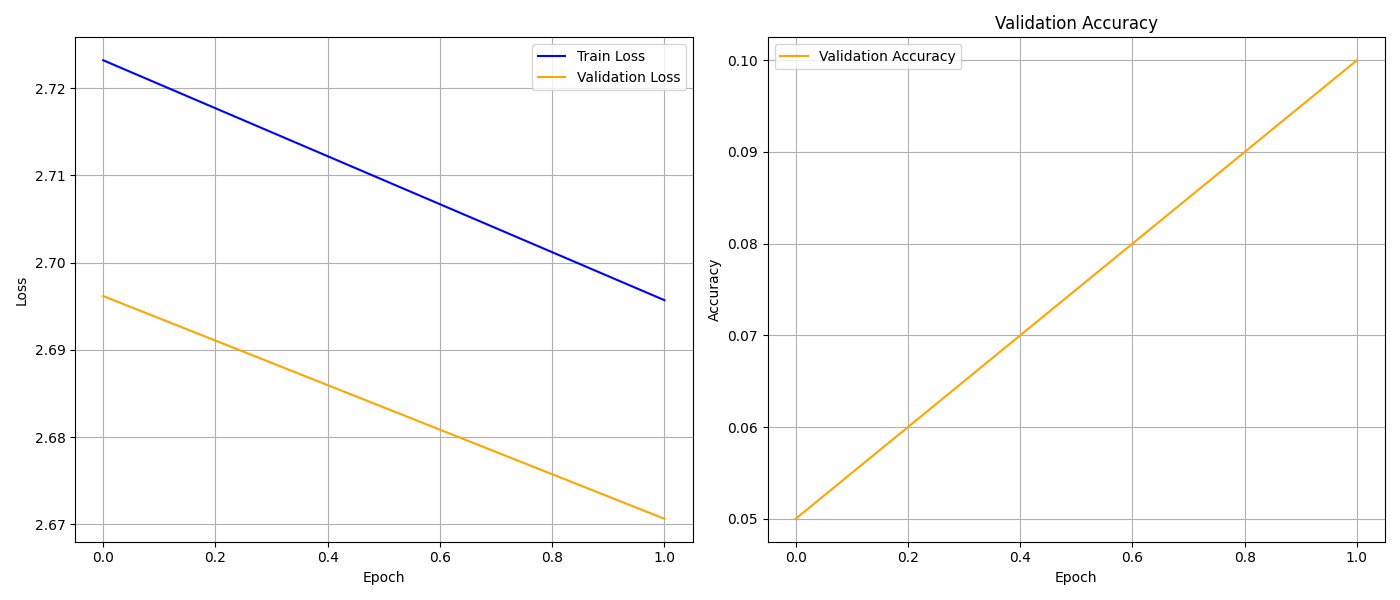
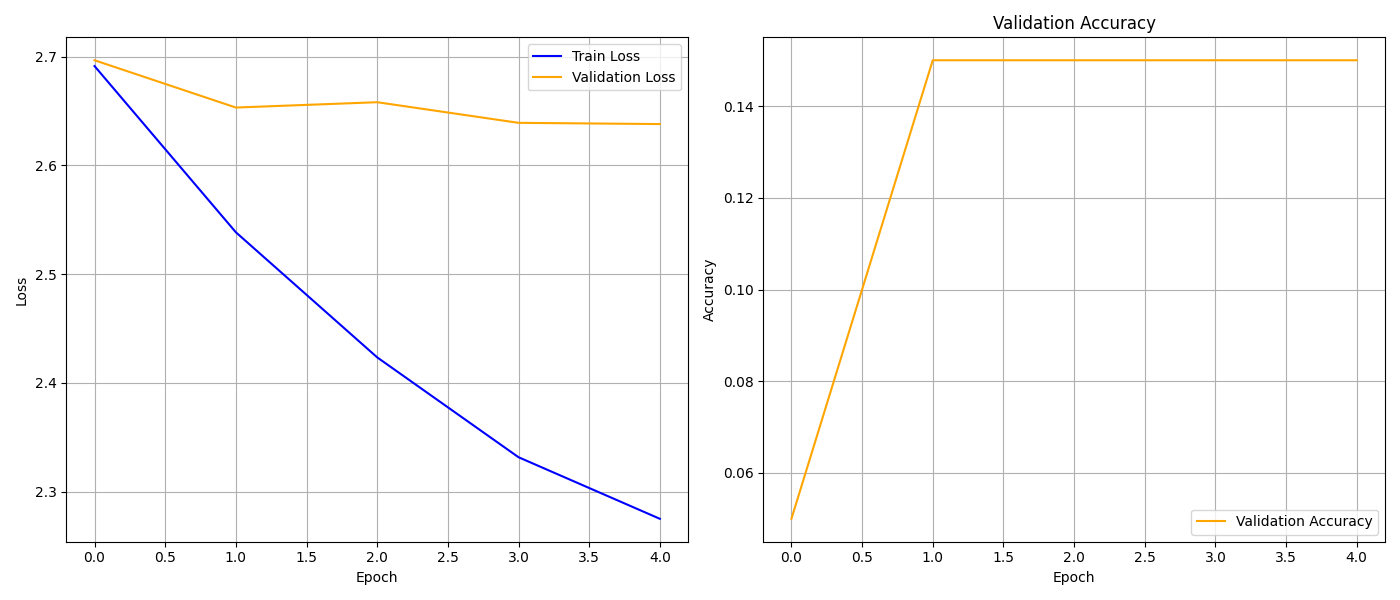
Add best_model with Git LFS

diff --git a/src/training_pipeline.py b/src/training_pipeline.py
@@ -73,10 +73,10 @@ class TrainingPipeline(BasePipeline):
             eval_strategy="epoch",
             logging_strategy="epoch",
             save_strategy="epoch",
-            learning_rate=2e-5,
+            learning_rate=1e-4,
             per_device_train_batch_size=16,
             per_device_eval_batch_size=16,
-            num_train_epochs=2,
+            num_train_epochs=5,
             load_best_model_at_end=True,
             metric_for_best_model=MetricsSchema.ACCURACY,
             greater_is_better=True,
